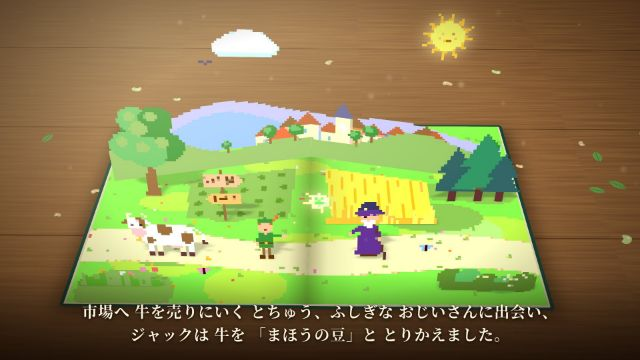
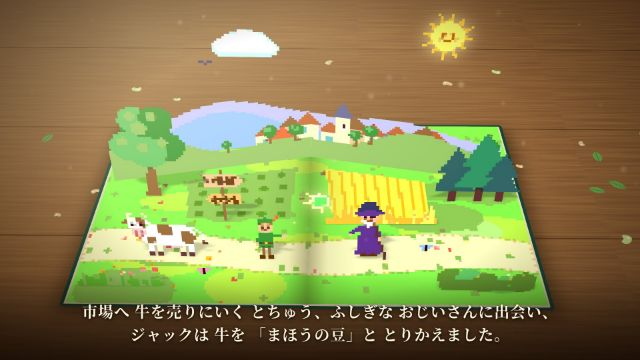
Pixel style: keep small dark details such as eyes and mouths
The style keeps one sample per 9px cell, so a 7px eye survived only
when a sample happened to land on it. Dark colours are now spread by
2px before sampling, which guarantees that dark details of 5px or
more are kept. Regenerate the previews and update presets.md.

diff --git a/skills/tobidas-lite/themes/storybook/theme.js b/skills/tobidas-lite/themes/storybook/theme.js
@@ -188,8 +188,9 @@
       mono: { label: 'モノクロ', filter: edge(2.4, '#efefef') + `<feColorMatrix in="SourceGraphic" type="matrix" values=".42 .82 .16 0 -.16  .42 .82 .16 0 -.16  .42 .82 .16 0 -.16  0 0 0 1 0" result="c"/>` + grain(.7, .5, 1.3) + tex('c') + `<feMerge><feMergeNode in="edge"/><feMergeNode in="tex"/></feMerge>`, pageFilter: 'grayscale(1) contrast(1.3) brightness(.92)', grain: .95, shadow: 1.15 },
       // 黒板: 板に描いたチョークの線画にする。形の中は板の色で塗りつぶし(うしろの物は隠れる)、輪郭と形の中の線だけを淡い色のかすれた線で描き、うっすら粉の色を乗せる
       chalk: { label: '黒板', filter: `<feTurbulence type="fractalNoise" baseFrequency=".05" numOctaves="2" seed="3" result="w"/><feDisplacementMap in="SourceGraphic" in2="w" scale="5" xChannelSelector="R" yChannelSelector="G" result="s"/><feMorphology in="s" operator="dilate" radius="2.6" result="big"/><feMorphology in="s" operator="erode" radius="1.3" result="sml"/><feBlend in="big" in2="sml" mode="difference" result="df"/><feColorMatrix in="df" type="matrix" values="0 0 0 0 1  0 0 0 0 1  0 0 0 0 1  5 5 5 0 -.35" result="mk"/><feColorMatrix in="big" type="matrix" values=".62 .1 .02 0 .34  .05 .66 .02 0 .34  .05 .1 .6 0 .34  0 0 0 1 0" result="pc"/><feComposite in="pc" in2="mk" operator="in" result="ln0"/><feTurbulence type="fractalNoise" baseFrequency=".9" numOctaves="2" seed="11" result="n"/><feColorMatrix in="n" type="matrix" values="0 0 0 0 1  0 0 0 0 1  0 0 0 0 1  2.6 2.6 0 0 -1.25" result="sp"/><feComposite in="ln0" in2="sp" operator="in" result="ln"/><feColorMatrix in="ln0" type="matrix" values="1 0 0 0 0  0 1 0 0 0  0 0 1 0 0  0 0 0 .6 0" result="lnb"/><feFlood flood-color="#27402f"/><feComposite in2="s" operator="in" result="bd"/><feColorMatrix in="s" type="matrix" values=".62 .1 .02 0 .34  .05 .66 .02 0 .34  .05 .1 .6 0 .34  0 0 0 .5 0" result="d0"/><feComposite in="d0" in2="sp" operator="in" result="du0"/><feColorMatrix in="du0" type="matrix" values="1 0 0 0 0  0 1 0 0 0  0 0 1 0 0  0 0 0 .7 0" result="du"/><feMerge><feMergeNode in="bd"/><feMergeNode in="du"/><feMergeNode in="lnb"/><feMergeNode in="ln"/></feMerge>`, pageFilter: 'grayscale(1) contrast(1.6) brightness(.24) sepia(1) hue-rotate(72deg) saturate(1.5)', grain: .9, shadow: .2 },
+      // 目や口のような小さく暗い細部が丸めで消えないよう、先に暗い色を 2px 太らせてから点を拾う(直径 5px 以上の暗い細部は必ず残る)
       // ドット絵: 9px のます目ごとに中心の1点だけを残し、それをます目いっぱいに太らせる。色は段階を減らす
-      pixel: { label: 'ドット絵', filter: `<feFlood x="4" y="4" width="1" height="1" flood-color="#000" result="pt"/><feOffset in="pt" dx="0" dy="0" x="0" y="0" width="9" height="9" result="cell"/><feTile in="cell" result="grid"/><feComposite in="SourceGraphic" in2="grid" operator="in" result="smp"/><feMorphology in="smp" operator="dilate" radius="4" result="px"/><feComponentTransfer in="px"><feFuncR type="discrete" tableValues="0 .2 .4 .6 .8 1"/><feFuncG type="discrete" tableValues="0 .2 .4 .6 .8 1"/><feFuncB type="discrete" tableValues="0 .2 .4 .6 .8 1"/><feFuncA type="discrete" tableValues="0 1"/></feComponentTransfer>`, pageFilter: 'url(#paper) saturate(1.2)', grain: 0, shadow: .9 },
+      pixel: { label: 'ドット絵', filter: `<feFlood x="4" y="4" width="1" height="1" flood-color="#000" result="pt"/><feOffset in="pt" dx="0" dy="0" x="0" y="0" width="9" height="9" result="cell"/><feTile in="cell" result="grid"/><feMorphology in="SourceGraphic" operator="erode" radius="2" result="er"/><feMerge result="src"><feMergeNode in="SourceGraphic"/><feMergeNode in="er"/></feMerge><feComposite in="src" in2="grid" operator="in" result="smp"/><feMorphology in="smp" operator="dilate" radius="4" result="px"/><feComponentTransfer in="px"><feFuncR type="discrete" tableValues="0 .2 .4 .6 .8 1"/><feFuncG type="discrete" tableValues="0 .2 .4 .6 .8 1"/><feFuncB type="discrete" tableValues="0 .2 .4 .6 .8 1"/><feFuncA type="discrete" tableValues="0 1"/></feComponentTransfer>`, pageFilter: 'url(#paper) saturate(1.2)', grain: 0, shadow: .9 },
     },
 
     // ---- 机・背景(theme.desk)---- background は机の面の CSS、room はまわりの部屋の色3つ、light は光の色。scene を持つものは「動く背景」

diff --git a/skills/tobidas-lite/themes/storybook/presets.md b/skills/tobidas-lite/themes/storybook/presets.md
@@ -20,7 +20,7 @@
 | `popart` | 太い黒の縁、原色に寄せた色、中に網点。アメコミ | 元気な話、ヒーローもの、ギャグ | 色が強くなるので、背景は淡い色で描いて主役と差を付ける |
 | `mono` | 白黒で明暗が強く、フィルムの粒が乗る。古い映画 | 昔の話、探偵もの、しずかな話、思い出 | 色の違いが消えるので、隣り合う物は明るさを変える |
 | `chalk` | 黒板に描いたチョークの線画。パーツは板の色で塗りつぶされ、輪郭と形の中の線が淡い色のかすれた線になる。地面も深緑の黒板になる | 学校の話、授業ふうの説明、手書きの味を出したい話 | 塗りの色はうっすらとしか残らないので、形と線で見分けられるように描く。色の差が小さい所は線が出ない |
-| `pixel` | 粗います目のドット絵。地面もドットになる | ゲームふうの話、冒険、勇者もの | 文字と小さな顔はつぶれる。看板の文字は使わず、人物は大きめに置く。ほかの画風より動きが重い |
+| `pixel` | 粗います目のドット絵。地面もドットになる | ゲームふうの話、冒険、勇者もの | 文字はつぶれる。看板の文字は使わない。目や口のような小さく暗い細部は残るようにしてあるが、明るい細部(暗い地の星や白い模様)は消えやすい。人物は大きめに置く。ほかの画風より動きが重い |
 
 書き下ろし(`theme.style` をオブジェクトで書く):
 
